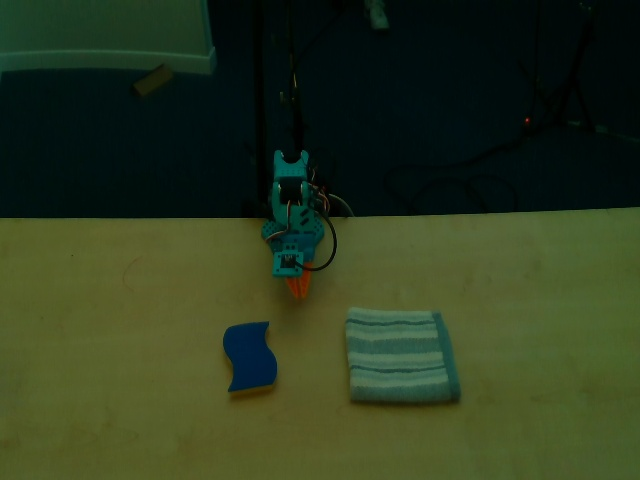
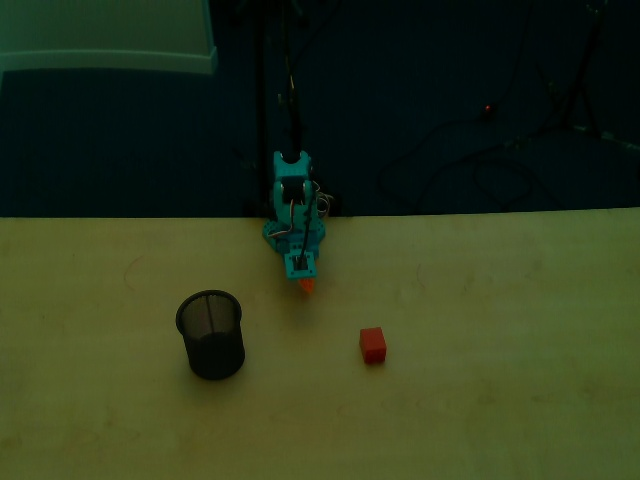
inference updates

diff --git a/rv_train/deploy/robot_client.py b/rv_train/deploy/robot_client.py
@@ -28,16 +28,16 @@ from lerobot.robots.so101_follower.so101_follower import SO101Follower
 SERVER_URL = "http://localhost:10000"
 
 # Task instruction sent to the model
-TASK = "Pick the sponge and place it on the cloth."
+TASK = "Pick up the juggling ball and place it in the bowl."
 
 # Camera indices — must match training order:
 #   3p1 (first image) = wrist camera  (observation.images.wrist)
 #   3p2 (second image) = middle camera (observation.images.middle)
-WRIST_CAMERA_IDX = 8
-MIDDLE_CAMERA_IDX = 4
+WRIST_CAMERA_IDX = 0
+MIDDLE_CAMERA_IDX = 12
 
 # Robot serial port
-ROBOT_PORT = "/dev/ttyACM0"
+ROBOT_PORT = "/dev/ttyACM1"
 
 # Control frequency. Must match dataset FPS (10) so each action step covers
 # the same time interval the model was trained on.